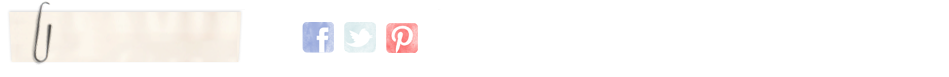
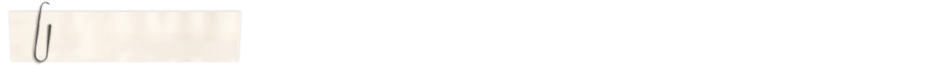
&39485801 , #11773 -- gifshop : filters css,remove sharebox from header, fix customStyle

Changed region(s): [[0.3056, 0.2857, 0.4584, 0.7013]]

diff --git a/skin/frontend/wonderhop/default/js/sales/sales.js b/skin/frontend/wonderhop/default/js/sales/sales.js
@@ -79,8 +79,7 @@ function getCookie(c_name)
 
 
 (function($){
-    $.fn.extend({
-    customStyle : function(options) {
+    var CustomStyle = function(options) {
         if(!$.browser.msie || ($.browser.msie&&$.browser.version>6)) {
             return this.each(function() {
                 //console.log(this);
@@ -119,29 +118,18 @@ function getCookie(c_name)
          });
         }
     }
-    });
+    
+    window.CustomStyle = CustomStyle;
+    CustomStyle.plug = function()
+    {
+        if ( ! jQuery.fn.customStyle) jQuery.fn.customStyle = CustomStyle;
+        return CustomStyle;
+    }
+    CustomStyle.plug();
+    
 })(jQuery);
 
 
-/*
-function doCustomStyle() {
-    var elems =jQuery('select').not(jQuery('.payment-methods select'));
-    console.log(jQuery.customStyle);
-    if (jQuery.fn.customStyle) {
-        elems.customStyle();
-    }
-    
-    customStyleEngage();
-}
-
-function customStyleEngage() {
-    //setTimeout(doCustomStyle, 1000);
-}
-
-jQuery( doCustomStyle );
-*/
-
-//jQuery(function(){ jQuery('select').not('.customStyle').customStyle(); });
 
 function getCustomStyleables(include,exclude) {
     var o = {}, $ = jQuery, $elems = jQuery('select').not('.customStyle').not('.noCustomStyle');
@@ -156,6 +144,7 @@ function getCustomStyleables(include,exclude) {
 }
 
 function doCustomStyle(include, exclude) {
+    CustomStyle.plug();
     getCustomStyleables(include,exclude).customStyle ? getCustomStyleables().customStyle() : 0;
     customStyleEngage(include,exclude);
     //console.log('dcs');

diff --git a/skin/frontend/wonderhop/default/css/styles.css b/skin/frontend/wonderhop/default/css/styles.css
@@ -2255,11 +2255,12 @@ ul.social_share  li { float:right; margin-left: 10px; min-width: 30px; list-styl
 .dynamic_header.giftshop { background-image:url("../images/giftshop/dynamic_header_back.png"); }
 .dynamic_header.giftshop .category-title { width:190px; }
 
-#filters-box { display:block; padding: 0 10px; position:relative; overflow:hidden; z-index:1; margin-top:12px; }
-#filters-box .gs-filter { width:200px; }
-#filters-box .gs-filter-wrap { width: 160px; display:block; float:left;clear:none; padding-right:15px;  }
+#filters-box { display:block; padding: 0 10px 0 80px; position:relative; overflow:hidden; z-index:1; 
+    margin-top:12px; height:35px; }
+#filters-box .gs-filter { width:150px; }
+#filters-box .gs-filter-wrap { width: 150px; display:block; float:left;clear:none; padding-right:40px;  }
 #filters-box .customStyleWrap, #filters-box select, #filters-box label { float: left;  clear:none; }
-#filters-box label { margin-top: 8px; font-style:normal; font-size:11px; font-weight:bold; color: #668; 
+#filters-box label { margin-top: 8px; font-style:normal; font-size:13px; font-weight:bold; color: #946885; 
     margin-right: 8px; }
 
 /* CHECKOUT CART PAGE */
